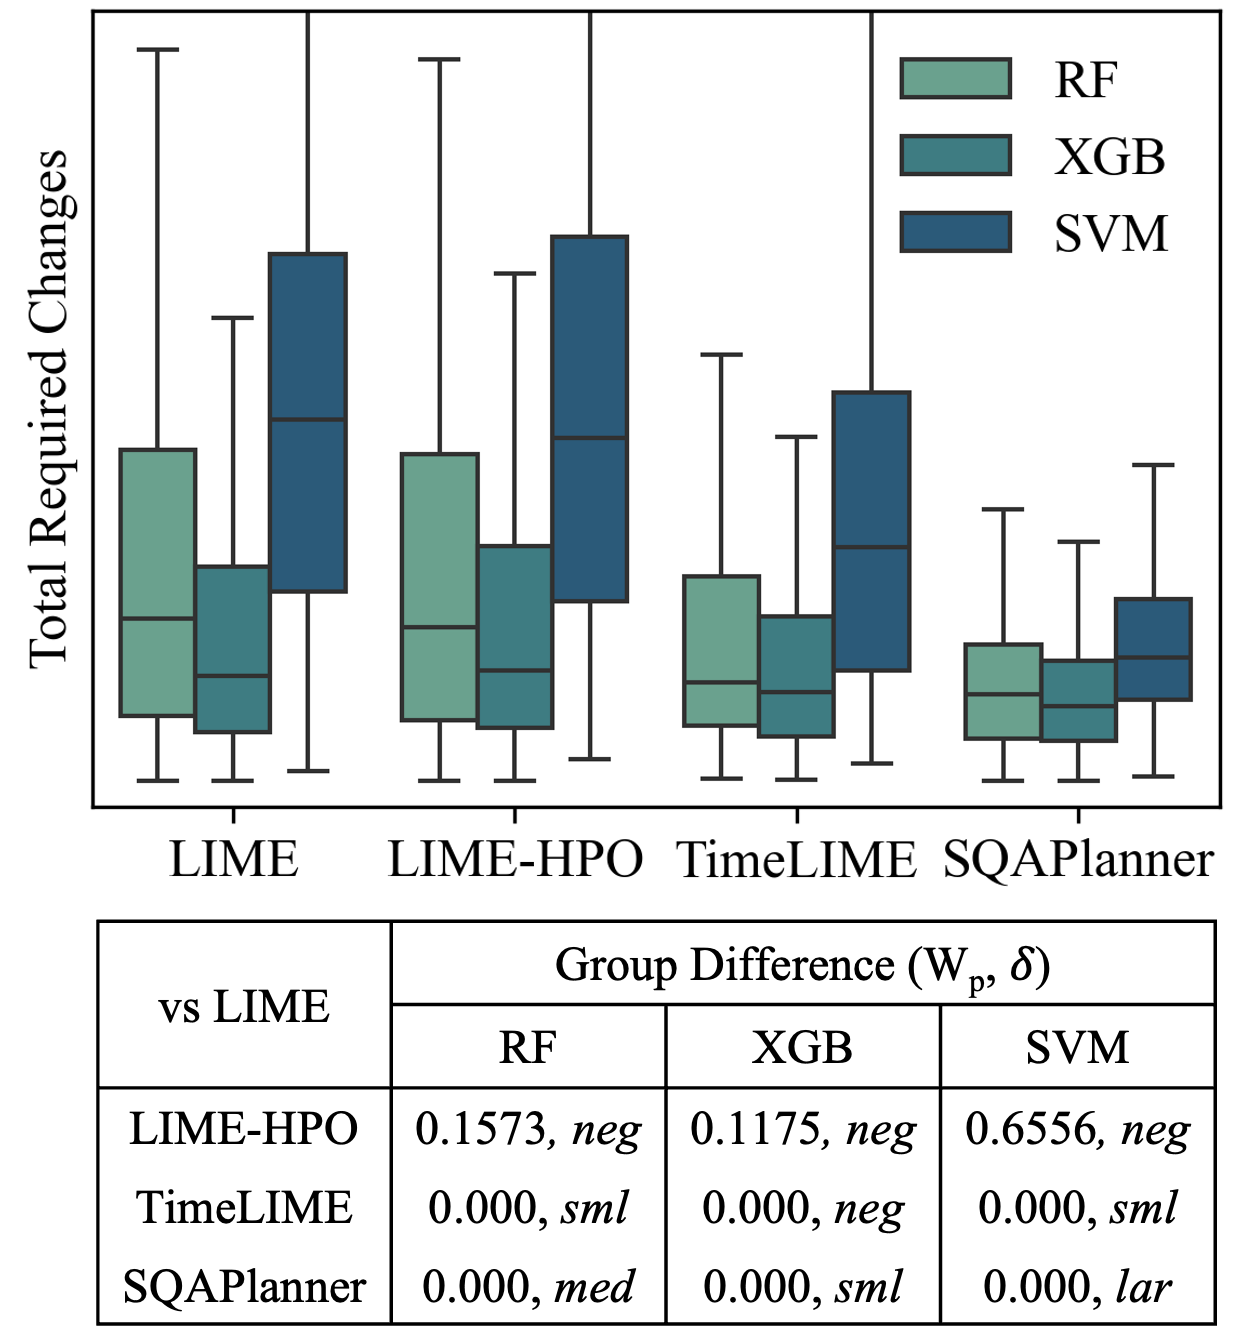
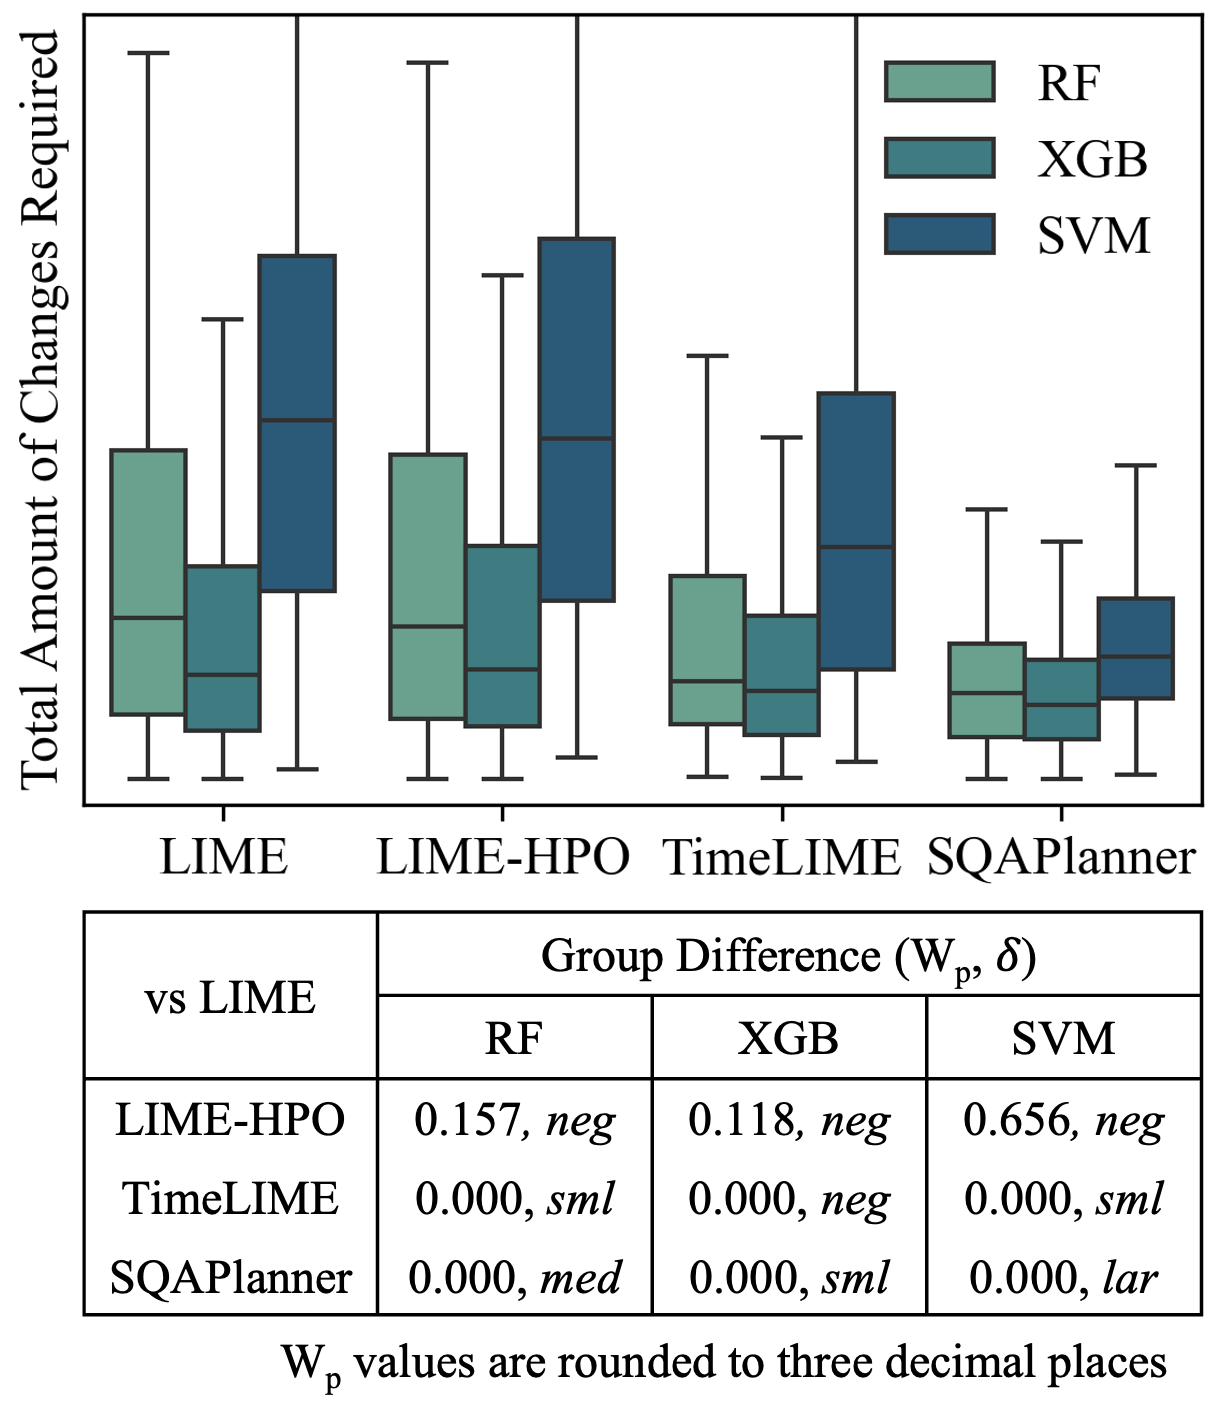
update implication figure

Changed region(s): [[0.0, 0.0, 0.9943, 1.0], [0.9011, 0.3055, 0.9321, 0.3666]]

diff --git a/analysis.py b/analysis.py
@@ -180,7 +180,7 @@ def visualize_implications():
 
     plt.figure(figsize=(4, 3))
     ax = sns.boxplot(data=total_df, x='Explainer', y='score', hue='Model', palette='crest', showfliers=False, hue_order=models)
-    ax.set_ylabel('Total Required Changes', rotation=90, labelpad=3, fontsize=12)
+    ax.set_ylabel('Total Amount of Changes Required', rotation=90, labelpad=3, fontsize=12)
     ax.set_xlabel('')
     plt.yticks(fontsize=12, ticks=[])
     ax.set_yticklabels(labels=[])
